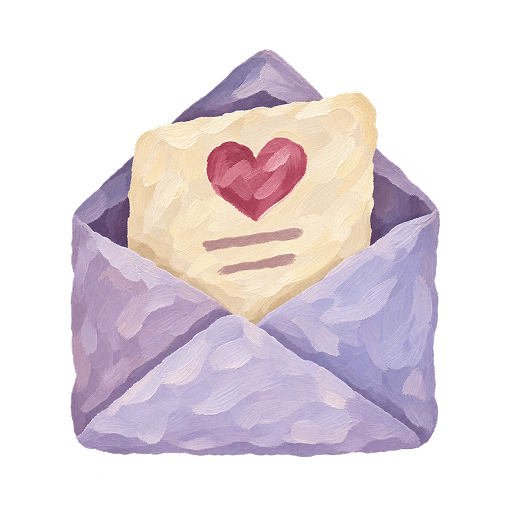
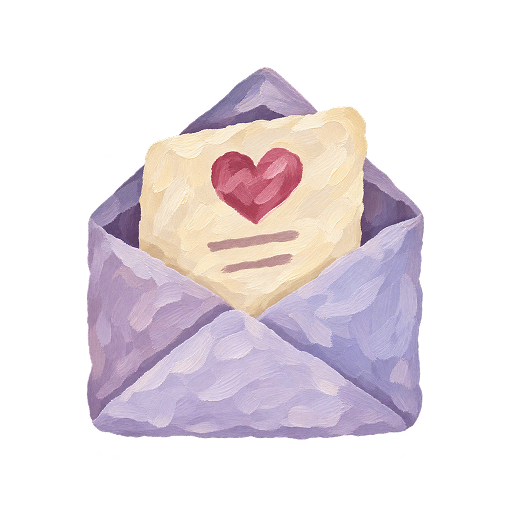
Imatges

Changed region(s): [[0.125, 0.0938, 0.875, 0.9062], [0.4062, 0.6562, 0.5, 0.7188], [0.2188, 0.5938, 0.3125, 0.6562]]

diff --git a/app.js b/app.js
@@ -182,12 +182,12 @@ function heading(section) {
   return header;
 }
 
-function sectionLead(section) {
-  const lead = el('div', 'section-lead');
+function sectionLead(section, { illustrated = true } = {}) {
+  const lead = el('div', `section-lead${illustrated ? '' : ' section-lead-text'}`);
   const copy = el('div', 'section-lead-copy');
   copy.append(heading(section), paragraph(section.intro, 'section-intro'));
   lead.append(copy);
-  if (sectionImages[section.id]) {
+  if (illustrated && sectionImages[section.id]) {
     const illustration = el('img', 'section-illustration');
     illustration.src = `./assets/${sectionImages[section.id]}`;
     illustration.alt = ''; illustration.width = 240; illustration.height = 180;
@@ -221,12 +221,12 @@ function home() {
 
 function contactContent(section) {
   const container = el('div', 'contact-content');
-  container.append(sectionLead(section));
+  container.append(sectionLead(section, { illustrated: false }));
   const list = el('ul', 'contact-list');
   const links = [
-    ['WhatsApp', contact.phone, `https://wa.me/34${contact.phone}`, 'contact-whatsapp.svg'],
-    ['Correu', contact.email, `mailto:${contact.email}`, 'contact-email.svg'],
-    ['Instagram', contact.handle, 'https://www.instagram.com/lafigueravlc/', 'contact-instagram.svg'],
+    ['WhatsApp', contact.phone, `https://wa.me/34${contact.phone}`, 'contact-whatsapp-painted.png'],
+    ['Correu', contact.email, `mailto:${contact.email}`, 'contacte-painted.png'],
+    ['Instagram', contact.handle, 'https://www.instagram.com/lafigueravlc/', 'contact-instagram-painted.png'],
   ];
   links.forEach(([label, value, href, image]) => {
     const row = el('li', 'contact-row');

diff --git a/styles.css b/styles.css
@@ -36,6 +36,8 @@ h1{font-family:var(--display);font-size:clamp(50px,6.5vw,87px);line-height:1.06;
 .section-lead-copy{display:contents}
 .section-lead .panel-heading{grid-column:1/-1}
 .section-lead h1{font-family:'EB Garamond',Georgia,serif;font-weight:500;font-size:clamp(46px,5.2vw,75px);line-height:1.1}
+.contact-content .section-lead-text{grid-template-columns:minmax(0,1fr);max-width:800px}
+.section-lead-text h1{min-height:0}
 .section-illustration{width:100%;max-width:380px;aspect-ratio:4/3;height:auto;object-fit:contain;justify-self:center;align-self:start}
 .home-opening{max-width:800px;font-size:20px;line-height:1.65;margin:0 auto;letter-spacing:-.4px}
 .is-home .site-header{position:static;border-bottom:0}
@@ -153,6 +155,7 @@ h1{font-family:var(--display);font-size:clamp(50px,6.5vw,87px);line-height:1.06;
   .section-lead{display:flex;flex-direction:column;align-items:stretch;gap:16px}
   .section-lead .panel-heading{order:0}
   .section-lead h1{font-size:clamp(36px,8.5vw,62px);min-height:2.2em}
+  .section-lead-text h1{min-height:0}
   .section-illustration{order:1;width:min(270px,80%);align-self:center}
   .section-lead .section-intro{order:2}
   h1{font-size:clamp(32px,8.5vw,62px);line-height:1.12;letter-spacing:-1px}

diff --git a/contacte/index.html b/contacte/index.html
@@ -7,7 +7,7 @@
     <meta name="theme-color" content="#e4e6fb">
     <meta name="description" content="La carta de La Figuera Events: tartes nupcials, bufet de tortades i taules dolces. Preus, sabors i preguntes freqüents.">
     <title>La Figuera Events · Contacte</title>
-    <link rel="icon" type="image/png" sizes="256x256" href="./assets/figa-256.png">
+    <link rel="icon" type="image/png" sizes="64x64" href="./assets/favicon.png">
     <link rel="stylesheet" href="./styles.css">
     <script type="module" src="./app.js"></script>
   </head>

diff --git a/nupcials/index.html b/nupcials/index.html
@@ -7,7 +7,7 @@
     <meta name="theme-color" content="#e4e6fb">
     <meta name="description" content="La carta de La Figuera Events: tartes nupcials, bufet de tortades i taules dolces. Preus, sabors i preguntes freqüents.">
     <title>La Figuera Events · Nupcials</title>
-    <link rel="icon" type="image/png" sizes="256x256" href="./assets/figa-256.png">
+    <link rel="icon" type="image/png" sizes="64x64" href="./assets/favicon.png">
     <link rel="stylesheet" href="./styles.css">
     <script type="module" src="./app.js"></script>
   </head>

diff --git a/taules/index.html b/taules/index.html
@@ -7,7 +7,7 @@
     <meta name="theme-color" content="#e4e6fb">
     <meta name="description" content="La carta de La Figuera Events: tartes nupcials, bufet de tortades i taules dolces. Preus, sabors i preguntes freqüents.">
     <title>La Figuera Events · Taules</title>
-    <link rel="icon" type="image/png" sizes="256x256" href="./assets/figa-256.png">
+    <link rel="icon" type="image/png" sizes="64x64" href="./assets/favicon.png">
     <link rel="stylesheet" href="./styles.css">
     <script type="module" src="./app.js"></script>
   </head>

diff --git a/bufet/index.html b/bufet/index.html
@@ -7,7 +7,7 @@
     <meta name="theme-color" content="#e4e6fb">
     <meta name="description" content="La carta de La Figuera Events: tartes nupcials, bufet de tortades i taules dolces. Preus, sabors i preguntes freqüents.">
     <title>La Figuera Events · Bufet</title>
-    <link rel="icon" type="image/png" sizes="256x256" href="./assets/figa-256.png">
+    <link rel="icon" type="image/png" sizes="64x64" href="./assets/favicon.png">
     <link rel="stylesheet" href="./styles.css">
     <script type="module" src="./app.js"></script>
   </head>

diff --git a/index.html b/index.html
@@ -7,7 +7,7 @@
     <meta name="theme-color" content="#e4e6fb">
     <meta name="description" content="La carta de La Figuera Events: tartes nupcials, bufet de tortades i taules dolces. Preus, sabors i preguntes freqüents.">
     <title>La Figuera Events · Inici</title>
-    <link rel="icon" type="image/png" sizes="256x256" href="./assets/figa-256.png">
+    <link rel="icon" type="image/png" sizes="64x64" href="./assets/favicon.png">
     <link rel="stylesheet" href="./styles.css">
     <script type="module" src="./app.js"></script>
   </head>

diff --git a/docs/desenvolupament.md b/docs/desenvolupament.md
@@ -48,11 +48,11 @@ Els títols principals de Nupcials, Bufet, Taules i Contacte utilitzen EB Garamo
 
 La portada mostra la marca ampliada amb la figa, la felicitació en Futura Book amb «ENHORABONA!» en Futura ND DemiBold, la descripció i quatre accessos amb la il·lustració de cada secció damunt del títol. Es distribueixen en quatre columnes en PC i dues en pantalles menudes. La barra de pestanyes s’oculta en la portada i reapareix dins de les seccions, també en navegar arrere i avant.
 
-Les quatre introduccions comparteixen el component `sectionLead`, les mateixes columnes, una àrea reservada per als títols i un marc d’imatge de proporció 4:3. Les descripcions tenen sempre la mateixa tipografia, mida i interlineat per amplària de pantalla, també en Contacte; la seua altura varia segons la llargària del text. En mòbil es mostra títol, imatge i descripció en el mateix ordre i amb el mateix espaiat.
+Les tres introduccions del catàleg comparteixen el component `sectionLead`, les mateixes columnes, una àrea reservada per als títols i un marc d’imatge de proporció 4:3. Les descripcions tenen sempre la mateixa tipografia, mida i interlineat per amplària de pantalla, la seua altura varia segons la llargària del text. En mòbil es mostra títol, imatge i descripció en el mateix ordre i amb el mateix espaiat.
 
-Tartes nupcials utilitza `assets/nupcial-painted.png`, Bufet de tortades `assets/torta-painted.png`, Taules dolces `assets/galetes-painted.png` i Contacte `assets/contacte-painted.png`, les il·lustracions aportades per l’usuari. Es mostren completes, sense retallar-les, tant en la portada com dins de les seccions. La correspondència d’imatges es defineix en `sectionImages`, dins d’`app.js`.
+Tartes nupcials utilitza `assets/nupcial-painted.png`, Bufet de tortades `assets/torta-painted.png`, Taules dolces `assets/galetes-painted.png` i Contacte `assets/contacte-painted.png`, les il·lustracions aportades per l’usuari. Es mostren completes, sense retallar-les. Contacte manté el sobre en la portada; dins de la secció, la introducció no té imatge i les tres vies utilitzen `assets/contact-whatsapp-painted.png`, `assets/contacte-painted.png` i `assets/contact-instagram-painted.png`. Les files continuen sent clicables en tota la seua superfície. La correspondència d’imatges es defineix en `sectionImages`, dins d’`app.js`.
 
-La icona de figa oberta està en `assets/figa-256.png` i s’utilitza tant en la capçalera com en la pestanya del navegador. Per substituir-la, actualitza el `src` de `<img class="brand-logo">` i l’`href` i el tipus de `<link rel="icon">` en les cinc entrades HTML. La mida del logotip dins de les seccions és de 45 px en PC i 36 px en mòbil; en la portada augmenta a 136 px i 88 px respectivament, definida en `styles.css`.
+La figa oberta de la capçalera està en `assets/figa-256.png`. La pestanya del navegador utilitza la nova icona circular aportada per l’usuari, `assets/favicon.png`, de 64 × 64 px. Per substituir-la, actualitza el `src` de `<img class="brand-logo">` i l’`href` i el tipus de `<link rel="icon">` en les cinc entrades HTML. La mida del logotip dins de les seccions és de 45 px en PC i 36 px en mòbil; en la portada augmenta a 136 px i 88 px respectivament, definida en `styles.css`.
 
 ## Verificació
 
